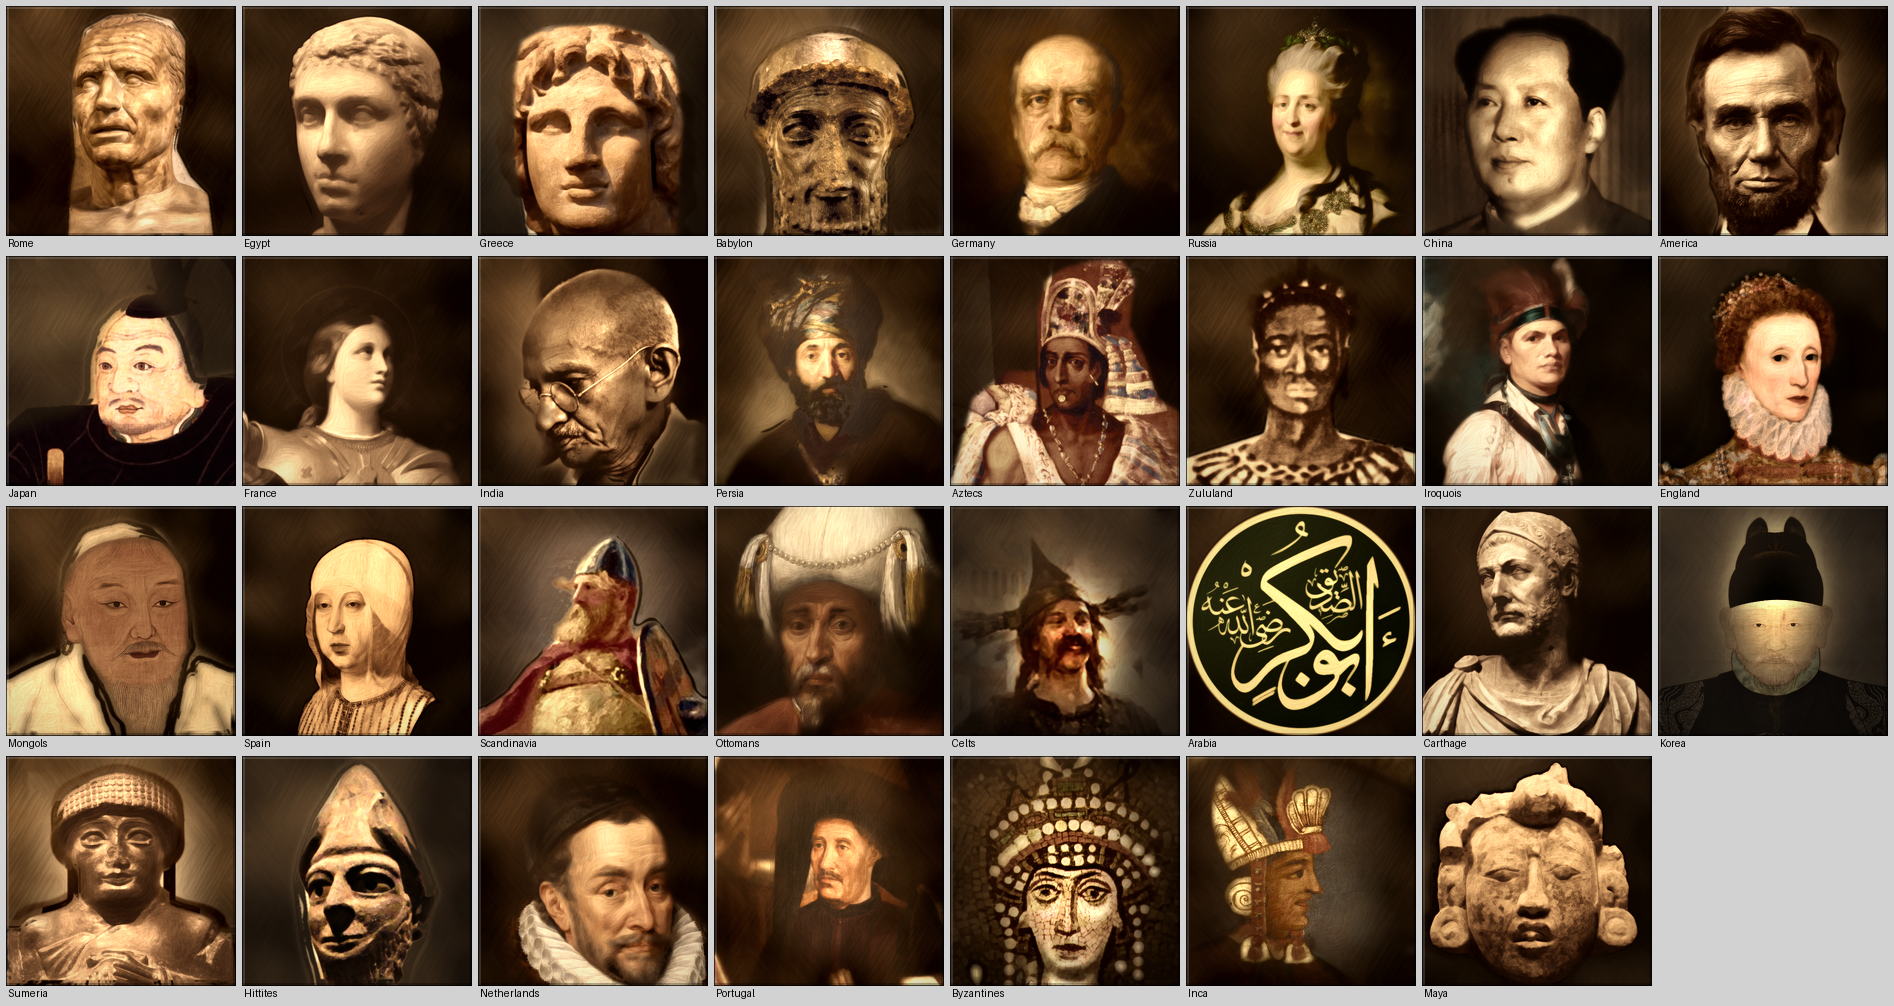
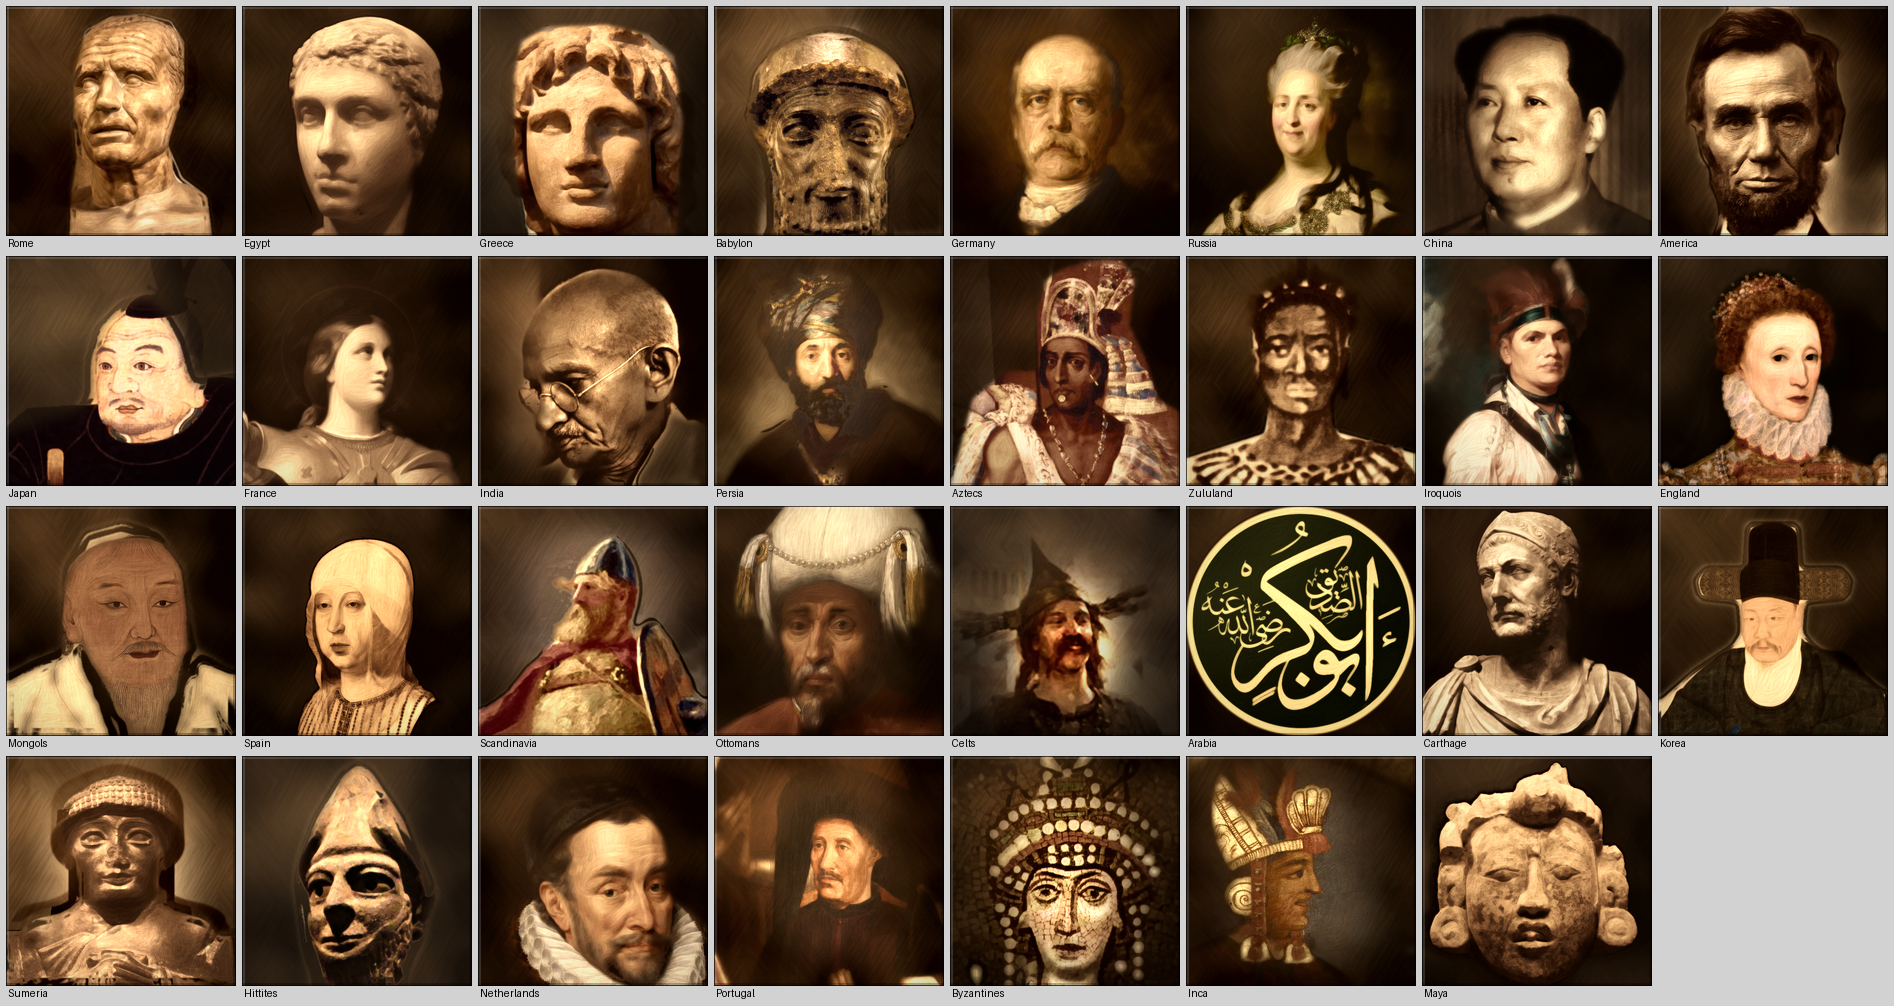
Show Wang Kon by Yi Jae-gwan's scholar-official portrait
The pale eojin never read well, so the stand-in is now Yi Jae-gwan's
well-modelled portrait of Scholar-Official An, outlined by hand.
Wider edge darkening on Genghis Khan, the Hittite statue and Gudea, and
Caesar's outline pulled off the pale wall beside his neck.

diff --git a/ArtGen/leaderheads/build.py b/ArtGen/leaderheads/build.py
@@ -107,8 +107,8 @@ SOURCES = {
               (0.006, 0.0, 0.988), 'Abu Bakr: his name in the roundel design by Kazasker Mustafa Izzet Efendi (Hagia Sophia, 19th century); no likeness of him exists, and Islamic tradition shows him by his name'),
     'Carthage': ('File:Hannibal Barca bust from Capua photo.jpg', (0.1, 0.0, 0.8),
                  'Hannibal: the marble bust found at Capua'),
-    'Korea': ('File:King Taejo Yi 01.jpg',
-             (0.18, 0.08, 0.64), 'A typical Korean king, standing in for Wang Kon, whose own portraits on Commons are too small or not public domain: Taejo of Joseon (Yi Seong-gye), detail of his royal portrait (eojin)'),
+    'Korea': ('File:Yi Jaegwan - Portrait of Scholar-Official An in his Fiftieth Year - Google Art Project.jpg',
+              (0.1, 0.25, 0.8), 'A typical Korean official, standing in for Wang Kon, whose own portraits on Commons are too small or not public domain: "Portrait of Scholar-Official An in his Fiftieth Year" by Yi Jae-gwan, 19th century'),
     'Sumeria': ('File:Gudea of Lagash Girsu.jpg',
                 (0.17, 0.03, 0.66), 'A typical Sumerian ruler, standing in for Gilgamesh, of whom no likeness survives: Gudea of Lagash, diorite statue, Louvre'),
     'Hittites': ('File:Priest-King or Diety, about 1600 BC, Hittite, North Syria, basalt with bone eyes - Cleveland Museum of Art - DSC08114.JPG',
@@ -127,7 +127,7 @@ SOURCES = {
 }
 
 # Artists Commons' metadata doesn't name, by civilization.
-ARTIST = {'Scandinavia': 'Hans Dahl'}
+ARTIST = {'Scandinavia': 'Hans Dahl', 'Korea': 'Yi Jae-gwan (1783-1837)'}
 
 # A little more for a few sources: contrast for a faded print; less
 # sharpening for small sources scaled up, so they don't get an artificial
@@ -147,18 +147,18 @@ PAINT = {
     # Hand-drawn outlines (polygons, in fractions of the tile) where the
     # mask can't find the sitter's edge: outside them is all painted ground
     # (with hand_only, inside them is all sitter).
-    'Rome': {'broad': 140, 'keep': 0.5, 'color': 0.45, 'hand_only': True, 'edge': 3,
+    'Rome': {'broad': 140, 'keep': 0.5, 'color': 0.45, 'hand_only': True, 'edge': 6, 'shrink': 1,
              'hand': [[(0.29, 0.3), (0.34, 0.1), (0.45, 0.04), (0.6, 0.03), (0.72, 0.06), (0.78, 0.15), (0.78, 0.38),
-                       (0.74, 0.62), (0.8, 0.74), (0.88, 0.82), (0.9, 1), (0.27, 1), (0.28, 0.8), (0.3, 0.66),
+                       (0.71, 0.6), (0.77, 0.74), (0.88, 0.82), (0.9, 1), (0.27, 1), (0.28, 0.8), (0.3, 0.66),
                        (0.29, 0.5)]]},
     # statues before a light wall: the sitter's outline pulled in further,
     # so no light rim of the wall glows round the head
     'Babylon': {'erode': 15, 'plain': 1.0, 'edge': 7, 'shrink': 2},
-    'Hittites': {'erode': 8, 'hand_only': True, 'level': 0.36, 'local': 1.5, 'feather': 4, 'edge': 7, 'shrink': 4, 'bg': 1.0,
+    'Hittites': {'erode': 8, 'hand_only': True, 'level': 0.36, 'local': 1.5, 'feather': 4, 'edge': 9, 'shrink': 5, 'bg': 1.0,
                  'hand': [[(0.24, 0.42), (0.3, 0.25), (0.42, 0.06), (0.5, 0.0), (0.58, 0.04), (0.72, 0.25), (0.8, 0.45),
                            (0.86, 0.6), (0.82, 0.68), (0.8, 0.8), (0.75, 0.9), (0.72, 1), (0.3, 1), (0.26, 0.85),
                            (0.24, 0.7), (0.22, 0.55)]]},
-    'Sumeria': {'erode': 15, 'edge': 6, 'shrink': 2},
+    'Sumeria': {'erode': 12, 'edge': 8, 'shrink': 3},
     'Greece': {'hand_only': True,
                'hand': [[(0.16, 0.3), (0.19, 0.15), (0.3, 0.09), (0.55, 0.08), (0.75, 0.13), (0.85, 0.22), (0.89, 0.5),
                          (0.86, 1), (0.22, 1), (0.16, 0.65)]]},
@@ -171,15 +171,17 @@ PAINT = {
     # a pale face on pale silk the mask can't tell apart
     # a pale face on pale silk: the whole picture darkened first, and an
     # outline for the hat, face and shoulders, which the mask can't find
-    'Korea': {'bg': 0.0, 'surround': 1.0, 'wallgrade': 0.0, 'around': (0.51, 0.42, 0.2, 0.36), 'deep': 0.8,
-              'gamma': 1.6, 'color': 0.6, 'local': 2.0, 'keep': 0.9, 'level': 0.30, 'collar': (0.66, 0.84),
-              'post': 0.75},
+    # the white collar and beard match the paper: a hand outline
+    'Korea': {'edge': 3, 'hand_only': True, 'feather': 3,
+              'hand': [[(0.39, 0.08), (0.61, 0.08), (0.62, 0.27), (0.8, 0.27), (0.84, 0.32), (0.82, 0.4), (0.64, 0.42),
+                        (0.63, 0.55), (0.68, 0.61), (0.9, 0.75), (1, 0.82), (1, 1), (0, 1), (0, 0.85), (0.15, 0.72),
+                        (0.32, 0.61), (0.36, 0.55), (0.35, 0.42), (0.18, 0.4), (0.16, 0.32), (0.2, 0.27), (0.38, 0.27)]]},
     # photographs: more of the real picture kept on the face, so the
     # strokes don't break skin into patches
     'America': {'keep': 0.55, 'erode': 30, 'feather': 3},
     'China': {'keep': 0.65},
     'India': {'keep': 0.65},
-    'Mongols': {'color': 0.35, 'level': 0.30, 'keep': 0.8, 'feather': 3, 'edge': 5, 'shrink': 3, 'bg': 1.0,
+    'Mongols': {'color': 0.35, 'level': 0.30, 'keep': 0.8, 'feather': 3, 'edge': 8, 'shrink': 4, 'bg': 1.0,
                 'hand': [[(0.22, 0.6), (0.24, 0.25), (0.33, 0.1), (0.5, 0.05), (0.67, 0.1), (0.78, 0.25), (0.84, 0.6),
                           (1, 0.7), (1, 1), (0, 1), (0, 0.7)]]},
     'Japan': {'edge': 6, 'shrink': 2, 'feather': 5, 'texture': 0.3, 'broad': 140,
